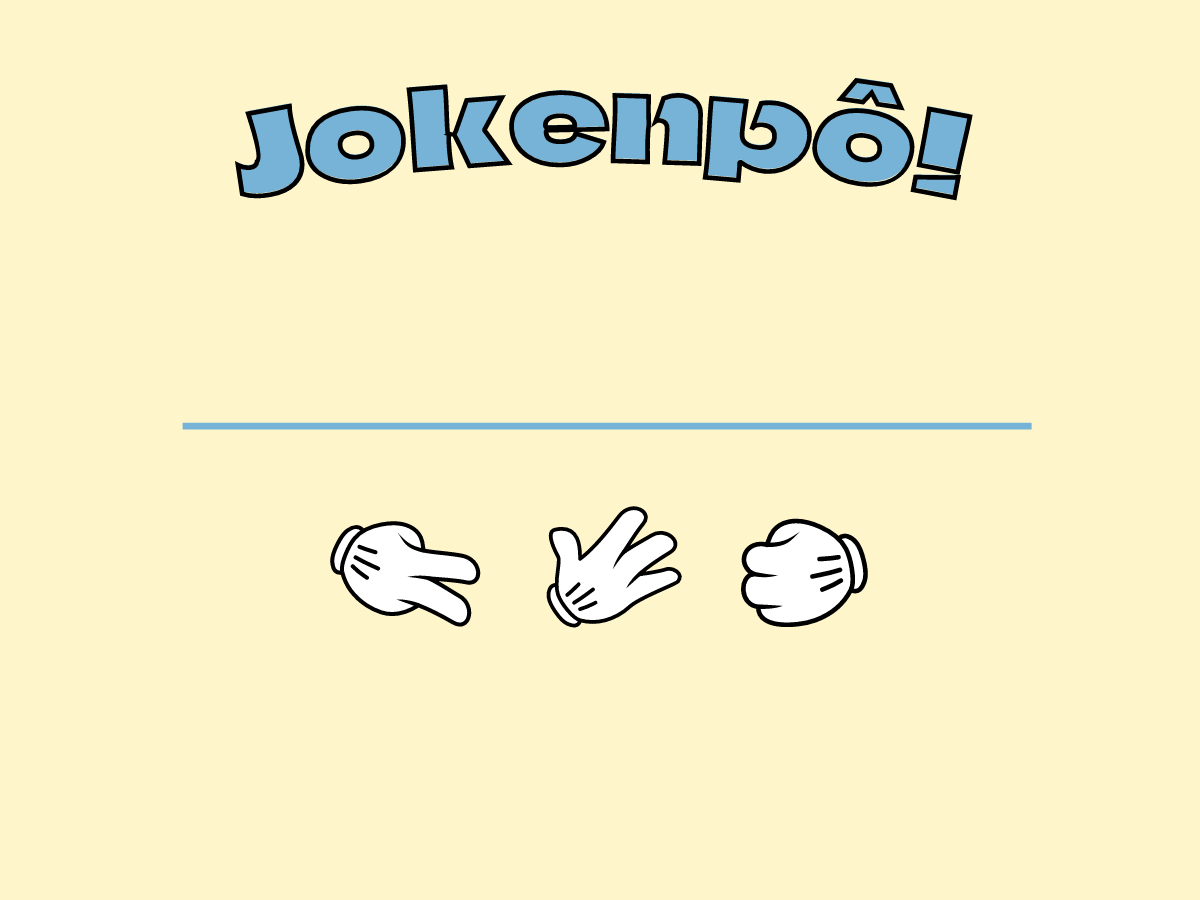
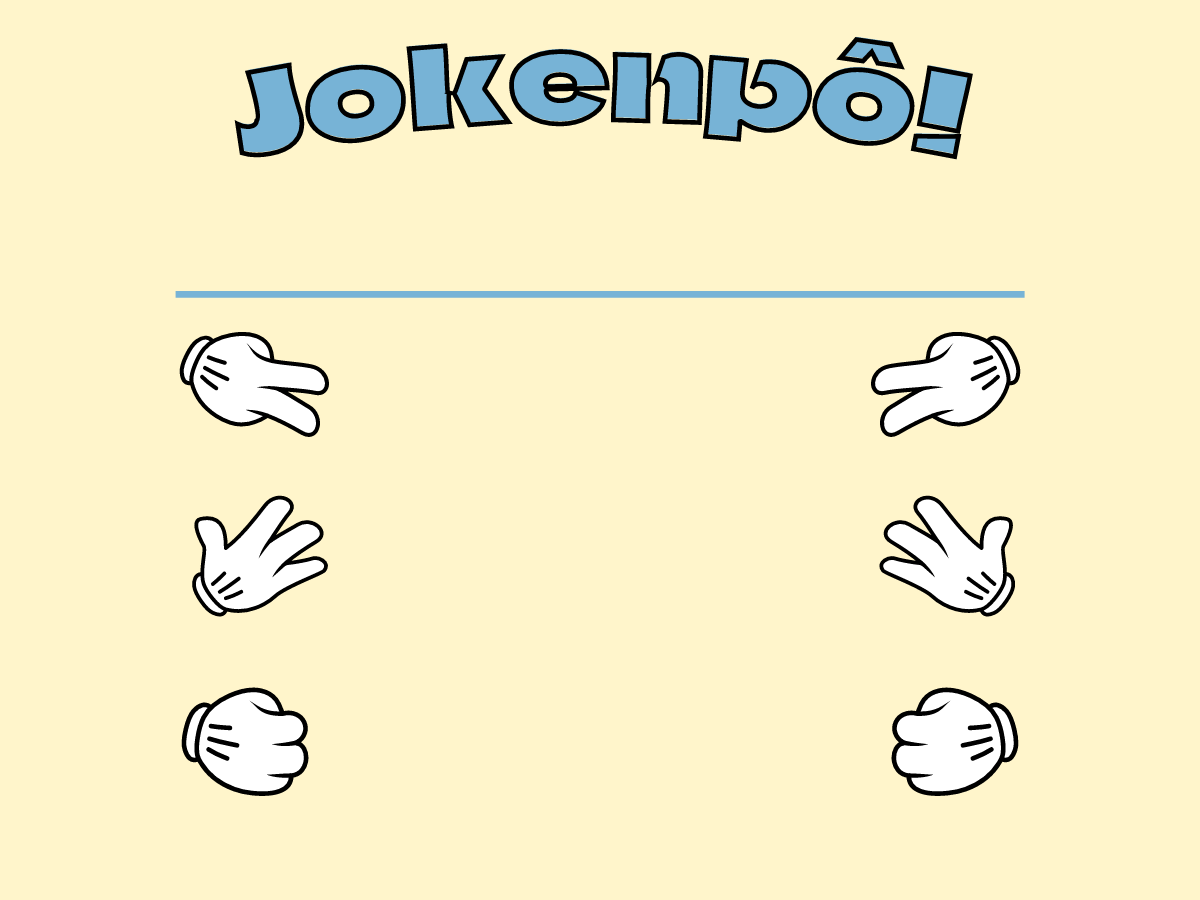
Atualizações da tela de Lobby

diff --git a/Jokenpo/src/telas/Lobby.java b/Jokenpo/src/telas/Lobby.java
@@ -1,16 +1,19 @@
 package telas;
 
+import static main.Main.BACKGROUND_COLOR;
 import static main.Main.CUSTOMIZED_BLUE;
 import static main.Main.fredoka;
 
-import java.awt.Color;
 import java.awt.Dimension;
 import java.awt.Graphics;
 import java.awt.image.BufferedImage;
 import java.io.IOException;
 
 import javax.imageio.ImageIO;
+import javax.swing.ButtonGroup;
+import javax.swing.ImageIcon;
 import javax.swing.JButton;
+import javax.swing.JLabel;
 import javax.swing.JPanel;
 import javax.swing.JRadioButton;
 
@@ -22,8 +25,11 @@ public class Lobby extends JPanel {
 	
 	private BufferedImage background;
 	private String pathBackground = "/background-lobby.png";
-	
+	private ImageIcon selectedArrow = new ImageIcon("res/selected-arrow-right.png");
+	private ImageIcon disabledArrow = new ImageIcon("res/disabled-arrow-right.png");
+
 	private JButton btnConfirm;
+	private ButtonGroup radioGroup;
 	
 	public Lobby()
 	{	
@@ -38,28 +44,42 @@ public class Lobby extends JPanel {
 		setPreferredSize(new Dimension(Main.WIDTH, Main.HEIGHT));
 		setLayout(null);
 				
-		JRadioButton tesoura = new JRadioButton();
-		tesoura.setName("tesoura");
-		tesoura.setBackground(new Color(0, 0, 0, 0));
-		tesoura.setBounds(390, 650, 25, 25);
-		add(tesoura);
+		/**
+		 * RadioButtons 
+		 */
+		radioGroup = new ButtonGroup();
 		
-		JRadioButton papel = new JRadioButton();
-		papel.setName("papel");
-		papel.setBackground(new Color(0, 0, 0, 0));
-		papel.setBounds(590, 650, 25, 25);
-		add(papel);
+		JRadioButton btnTesoura = new JRadioButton(disabledArrow);
+		btnTesoura.setName("tesoura");
+		btnTesoura.setSelected(true);
+		btnTesoura.setBackground(BACKGROUND_COLOR);
+		btnTesoura.setBounds(80, 350, 70, 64);
+		btnTesoura.setSelectedIcon(selectedArrow);
+		btnTesoura.setDisabledIcon(disabledArrow);
+		radioGroup.add(btnTesoura);
+		add(btnTesoura);
 		
-		JRadioButton pedra = new JRadioButton();
-		pedra.setName("pedra");
-		pedra.setBackground(new Color(0, 0, 0, 0));
-		pedra.setBounds(790, 650, 25, 25);
-		add(pedra);
+		JRadioButton btnPapel = new JRadioButton(disabledArrow);
+		btnPapel.setName("papel");
+		btnPapel.setBackground(BACKGROUND_COLOR);
+		btnPapel.setBounds(80, 530, 70, 64);
+		btnPapel.setSelectedIcon(selectedArrow);
+		btnPapel.setDisabledIcon(disabledArrow);
+		radioGroup.add(btnPapel);
+		add(btnPapel);
 		
-//		ImageIcon imageIcon = new ImageIcon("/res/loading.gif");
-//		JLabel label = new JLabel(imageIcon);
-//		label.setBounds(570, 550, 60, 60);
-//		add(label);
+		JRadioButton btnPedra = new JRadioButton(disabledArrow);
+		btnPedra.setName("pedra");
+		btnPedra.setBackground(BACKGROUND_COLOR);
+		btnPedra.setBounds(80, 700, 70, 64);
+		btnPedra.setSelectedIcon(selectedArrow);
+		btnPedra.setDisabledIcon(disabledArrow);
+		radioGroup.add(btnPedra);
+		add(btnPedra);
+		
+		JLabel label = new JLabel(new ImageIcon(getClass().getResource("/waiting.gif")));
+		label.setBounds(470, 350, 200, 200);
+		add(label);
 		
 		btnConfirm = new JButton("Confirmar");
 		btnConfirm.setFont(fredoka);
@@ -72,6 +92,11 @@ public class Lobby extends JPanel {
 	protected void paintComponent(Graphics g) {
 	    super.paintComponent(g);
 	        g.drawImage(background, 0, 0, null);
+	        
+	        g.setColor(CUSTOMIZED_BLUE);
+	        g.setFont(fredoka.deriveFont((float) 16));
+	        g.drawString("Selecione sua jogada clicando", 470, 650);
+	        g.drawString("sobre a seta correspondente!", 470, 665);
 	}
 
 	public JButton getBtnConfirm() {
@@ -81,5 +106,7 @@ public class Lobby extends JPanel {
 	public void setBtnConfirm(JButton BtnConfirm) {
 		this.btnConfirm = BtnConfirm;
 	}
+	
+	
 }
 
